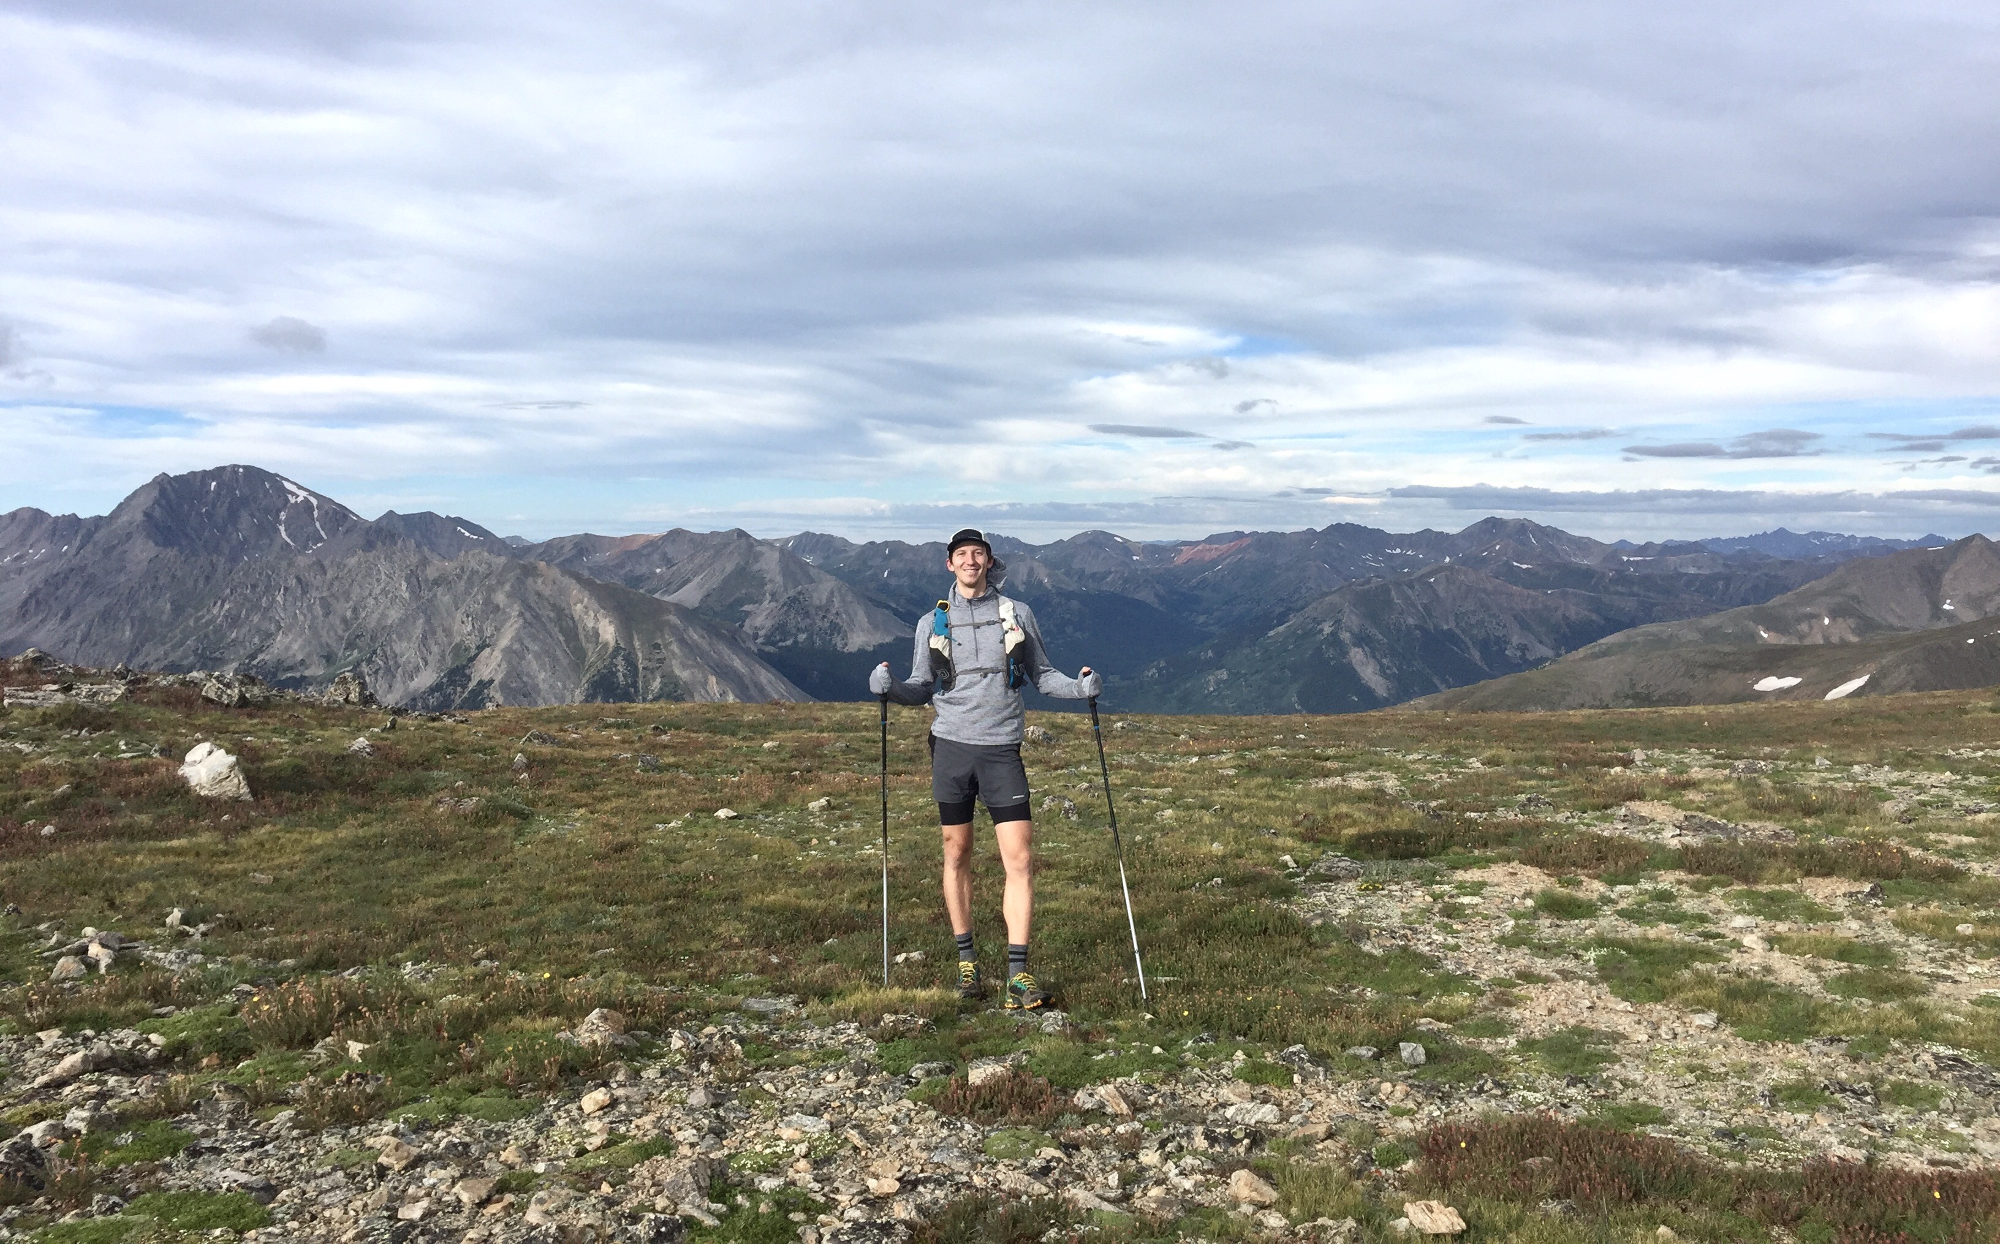
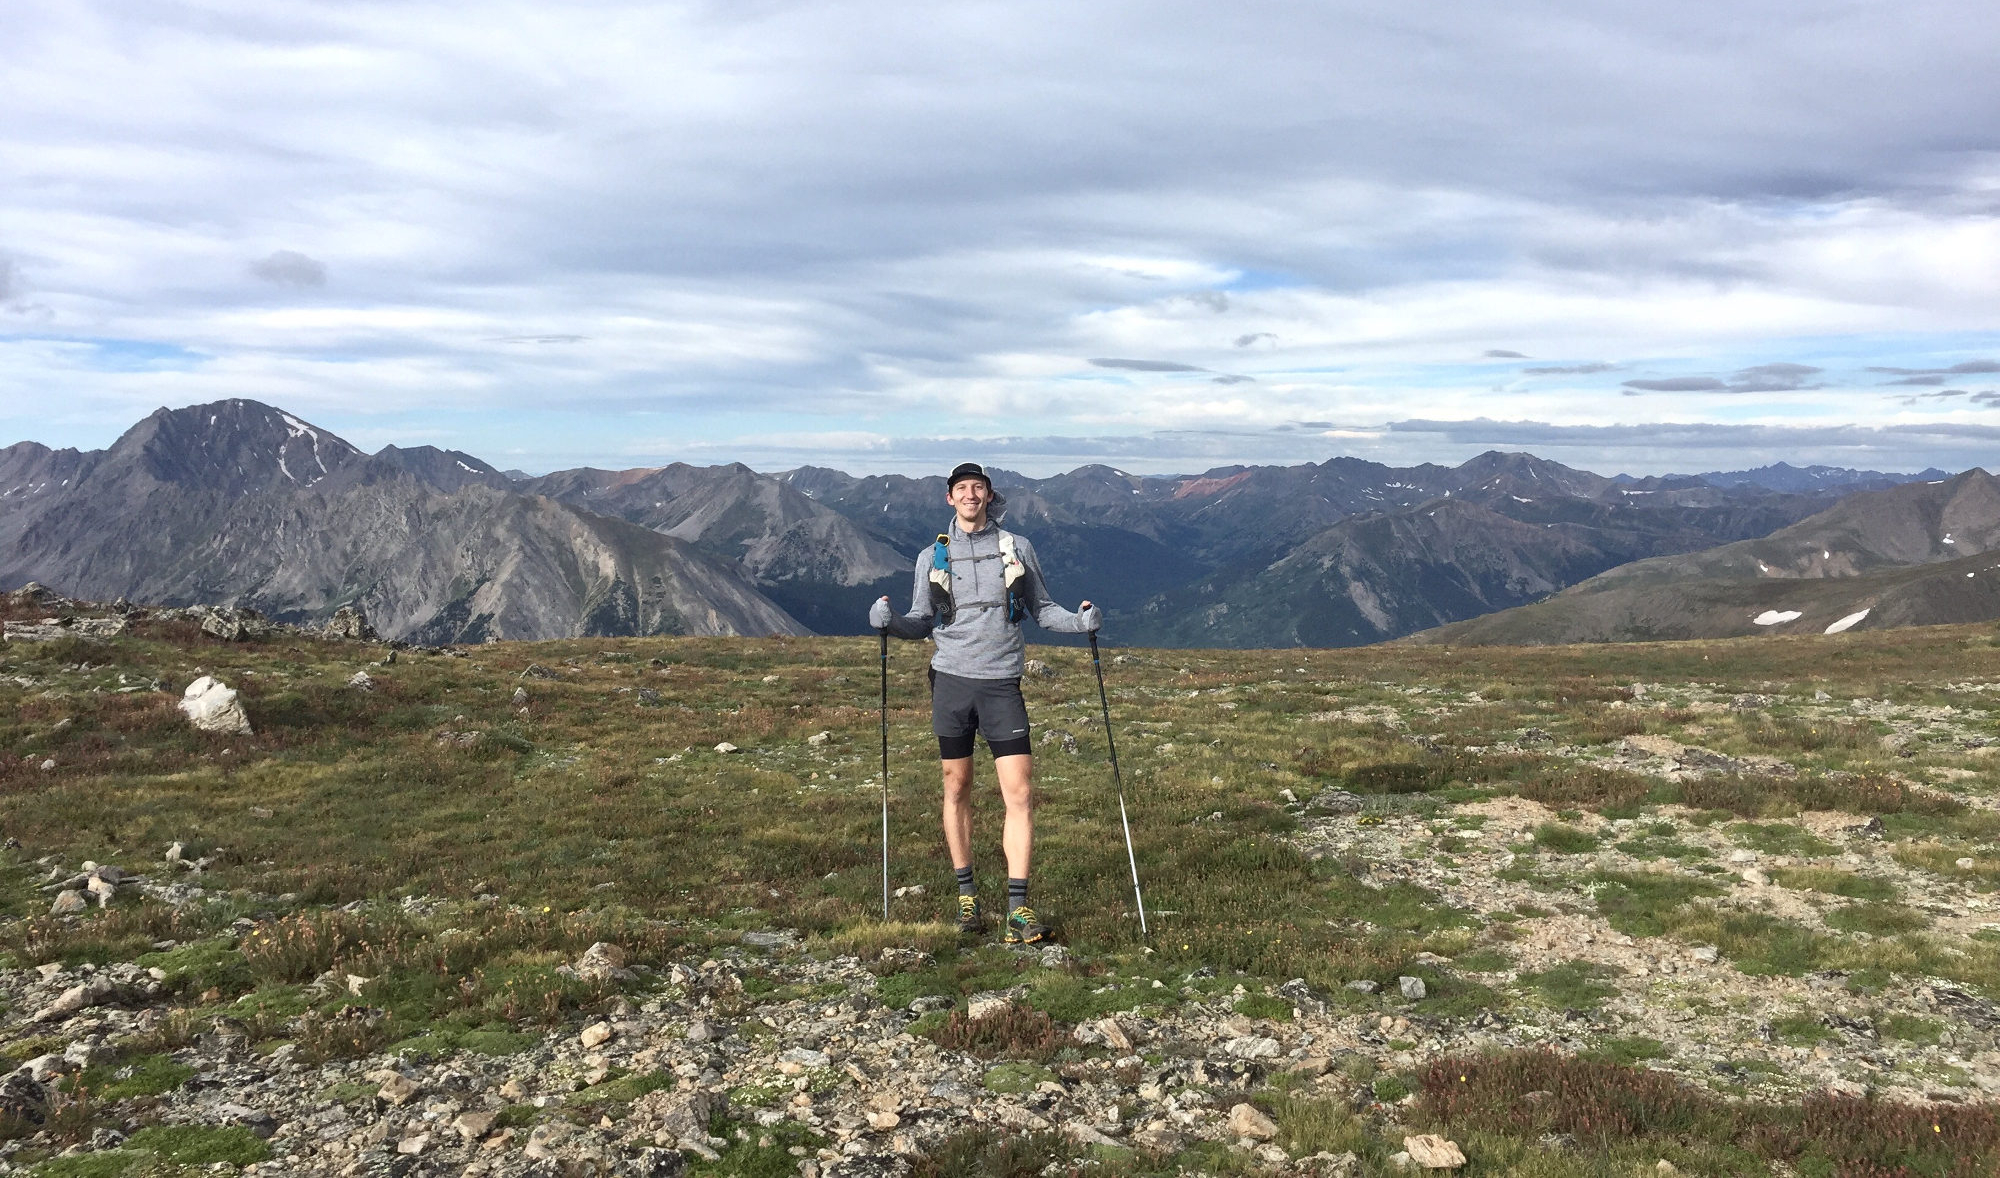
Fixed CSS and cropped image more

diff --git a/public/css/stark.css b/public/css/stark.css
@@ -51,7 +51,13 @@ a.tile {
   padding: 0 8px;
 }
 a.tile:hover {
-  background: rgba(0,0,0,0.05);
+  /*background: rgba(0,0,0,0.05);*/
+}
+a.tile:hover p,
+a.tile:hover h1,
+a.tile:hover h2 {
+  transition: all 0.2s;
+  color: #000000;
 }
 
 h1 { color: #EEE; font-size: 1.8em; letter-spacing: 0.02em; line-height: 1.4; margin: 1em 0 0.6em 0; text-shadow: 1px 1px 2px black; }
@@ -116,13 +122,13 @@ header nav ul.left li {
 }
 header nav ul li a {
   display: inline-block;
-  padding: 16px 16px 12px 16px;
+  padding: 16px 16px 16px 16px;
   border: none;
   transition: all 0.2s;
-  color: #333;
+  color: #555;
 }
 header nav ul li a:visited {
-  color: #333;
+  color: #555;
 }
 header nav ul li a:hover {
   text-decoration: none;
@@ -163,7 +169,7 @@ section#atf .atf-content {
   justify-content: center;
   align-items: center;
   width: 100%;
-  background: rgba(0,0,0,0.4);
+  background: linear-gradient(0,rgba(0,0,0,0.6), rgba(0,0,0,0));
   padding: 8px 0;
 }
 
